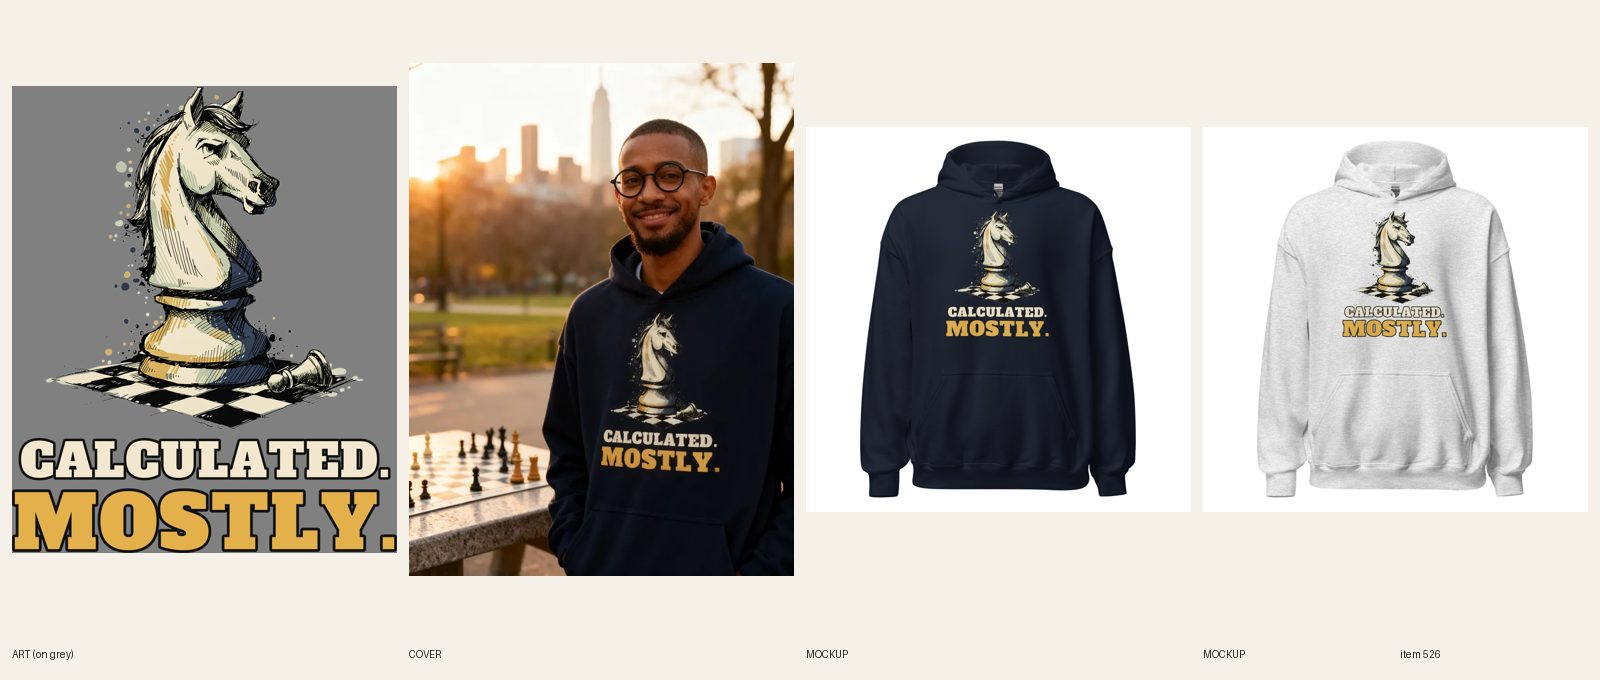
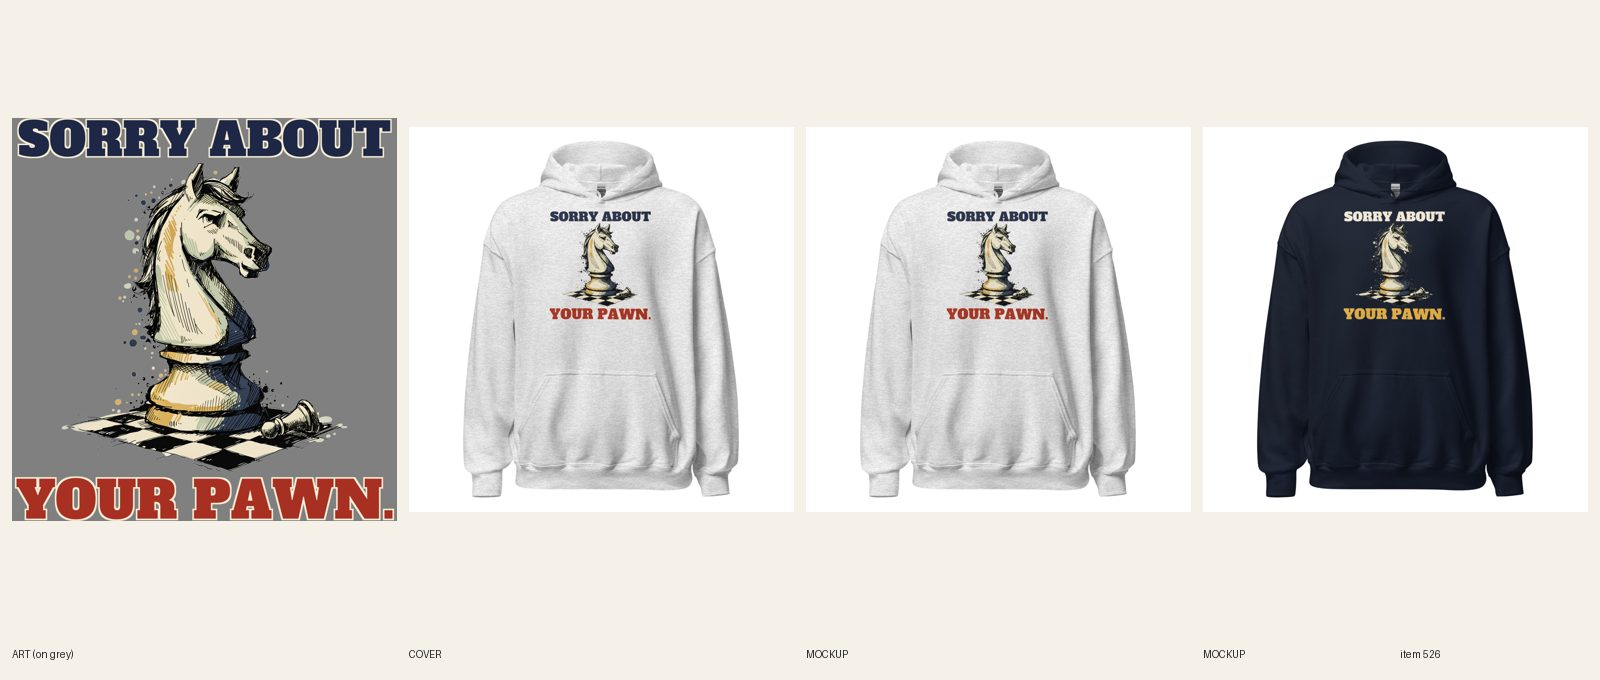
[C] review 526 (redo)
Claude-Session: https://claude.ai/code/session_01CCHcDj8LcJJ8qUPtKE3cvn

diff --git a/docs/pipeline/526-chess-hoodie-calculated-mostly.md b/docs/pipeline/526-chess-hoodie-calculated-mostly.md
@@ -1,4 +1,4 @@
-status: BUILDING [C] 2026-10-20 09:23
+status: REVIEW
 lane: C
 type: twin
 id: 526
@@ -27,3 +27,4 @@ kd: 38
 - 2026-10-18 02:46 UTC builder [C]: Sync 12/12. REVIEW. Sheet docs/review/526.jpg.
 - 2026-10-18 03:16 UTC director: LIVE. Sheet seen: smug knight and toppled pawn, CALCULATED. MOSTLY. reads on Navy and Ash; man at a park chess table. ACTIVE + Online Store, Headless, Google & YouTube; audit --handle PASS (0 warn).
 - 2026-10-18 17:22 UTC director: QUALITY RESET grade C (new line + type), REDO. The product stays ACTIVE (same handle, URL, title keyword). 1. Line (R3.12, quality-reset 'Lines'): "CALCULATED. / MOSTLY.": Word plus mild aside, same shape as Lifts Heavy / has whimsy. Write 5 candidates, keep the one a stranger laughs at in 3 seconds without backstory; kill lines that only describe the picture; if none of the 5 is funny, PARK it. 2. Quality reset type bar (docs/backlog/quality-reset.md, 'The new bar'): headline at least 90% of the art width, heavy, colors pulled from the art; second line at least 45% of the headline's height, never a thin script on a dark or mid garment; use the lettering as a shape (arch, stacked lockup, words breaking into the art), not a plain bar above and a script line below; no font used on more than 1 in 6 of the last 30 designs. 3. Keep the art if it carries the new line, else one new illustration (R4/R5). New print means a new cover per R6.10, copy line one rewritten for the new joke (R8.3), and a fresh review sheet (R7.7). While quality-reset.md says PAUSED, only lane A builds, and only the samples step 2 names.
+- 2026-10-20 09:29 UTC builder [C]: REDO new line + type (grade C; title card 7i done). Twin of #442, which now carries SORRY ABOUT / YOUR PAWN. (the line chosen after 5 candidates against Sorry About Your Windshield., Not Cheating. Improving My Lie. and Short Legs, Long Opinions; see #442's log); twins carry the design's line (R3.9), so this hoodie reuses #442's new print. Measured ink widths (card 7h): headline SORRY ABOUT 3313 px / punch YOUR PAWN. 3354 px (101%; punch taller, 395 vs 356 px). Alfa Slab One both lines. Light-file (R5.3.8): Ash file 1090277160 (headline navy with a cream keyline, punch red), Navy file 1090277197 (headline cream, punch gold with a navy keyline); docs/print-files/526-v2-pawn-ash.png / -navy.png (copies of the 442 v2 files); print 3405 x 3564, FW 1500 TOP 0 (about 1,570 px, ends above the pouch seam on both mockups), 12/12 relinked (verified on the API). 2 fronts replaced in place, read at phone size. Title set to "Men's Chess – Sorry About Your Pawn Hoodie" (handle unchanged); copy, FAQ ink sentence and SEO rewritten; handle in retired-covers.json. Plain product shot. fal $0.

diff --git a/docs/intake-log.md b/docs/intake-log.md
@@ -23,6 +23,7 @@ RUNNING lane B since 2026-10-20 09:02 UTC
 2026-10-20 07:44 UTC — [B] Builder run: REDO round 3 of #455 Unisex Hanukkah Lost My Gelt crewneck (dreidel face marks painted out, Navy file 1090236634 + Sport Grey file 1090236680, FW 1650 TOP 0, 12/12 relinked, 2 fronts replaced in place) and #469 Women's Christmas embroidered crewneck (new line BOOKED / THROUGH JANUARY., headline 2197 / punch 2197 px, Sand file 1090237592 + Navy file 1090237605, 12/12 synced, title/SEO/copy/alts updated). Both REVIEW. #498 left for director (R3.14 note). fal $0.
 2026-10-20 08:00 UTC — [E] Builder run: redid #608 Women's Pickleball tee (line + type: POLITE SMILE. / PERSONAL VENDETTA., same serene-lady art, Bevan, dark-ink file on 5 light colors, 30/30 synced). REVIEW. fal $0.
 RUNNING lane C since 2026-10-20 07:00 UTC
+2026-10-20 09:29 UTC — [C] Builder run: redid #526 Men's Chess hoodie (twin of #442: SORRY ABOUT / YOUR PAWN., headline 3313 px / punch 3354 px, Alfa Slab, Ash file 1090277160 + Navy file 1090277197, FW 1500 TOP 0, 12/12 relinked, 2 fronts replaced in place, title + copy + SEO updated). REVIEW. fal $0.
 2026-10-20 09:23 UTC — [C] Builder run: redid #516 Women's Dachshund hoodie (new line + type: OUT OF OFFICE. / BACK IN SPRING., headline 3309 px / punch 3360 px, Bowlby + Alfa, same quilt art, Sand file 1090275442 + Sport Grey file 1090275478, FW 1650 TOP 30, 12/12 relinked, 2 fronts replaced in place, title + copy + SEO updated). REVIEW. fal $0.
 2026-10-20 09:16 UTC — [C] Builder run: redid #371 Women's Sunflower zip hoodie (new line + type: SUNSHINE. / DO NOT TOUCH THE PETALS., headline 3291 px / punch 3336+2825 px, Bowlby + Big Shoulders, same sunflower art, Ash file 1090272572 + Navy file 1090272641, BW 1650 BT 225, 14/14 relinked, back mockups updated, title + copy + SEO updated). REVIEW. fal $0.
 2026-10-20 09:05 UTC — [C] Builder run: redid #364 Women's Soccer zip hoodie (new line + type: HALFTIME SNACKS: / MY ONLY JOB., headline 3264 px / punch 3302 px, Big Shoulders + Bowlby, same cooler art, Ash file 1090270165 + Navy file 1090270200, BW 1650 BT 225, 12/12 relinked, back mockups replaced, title + copy + SEO updated). REVIEW. fal $0.
